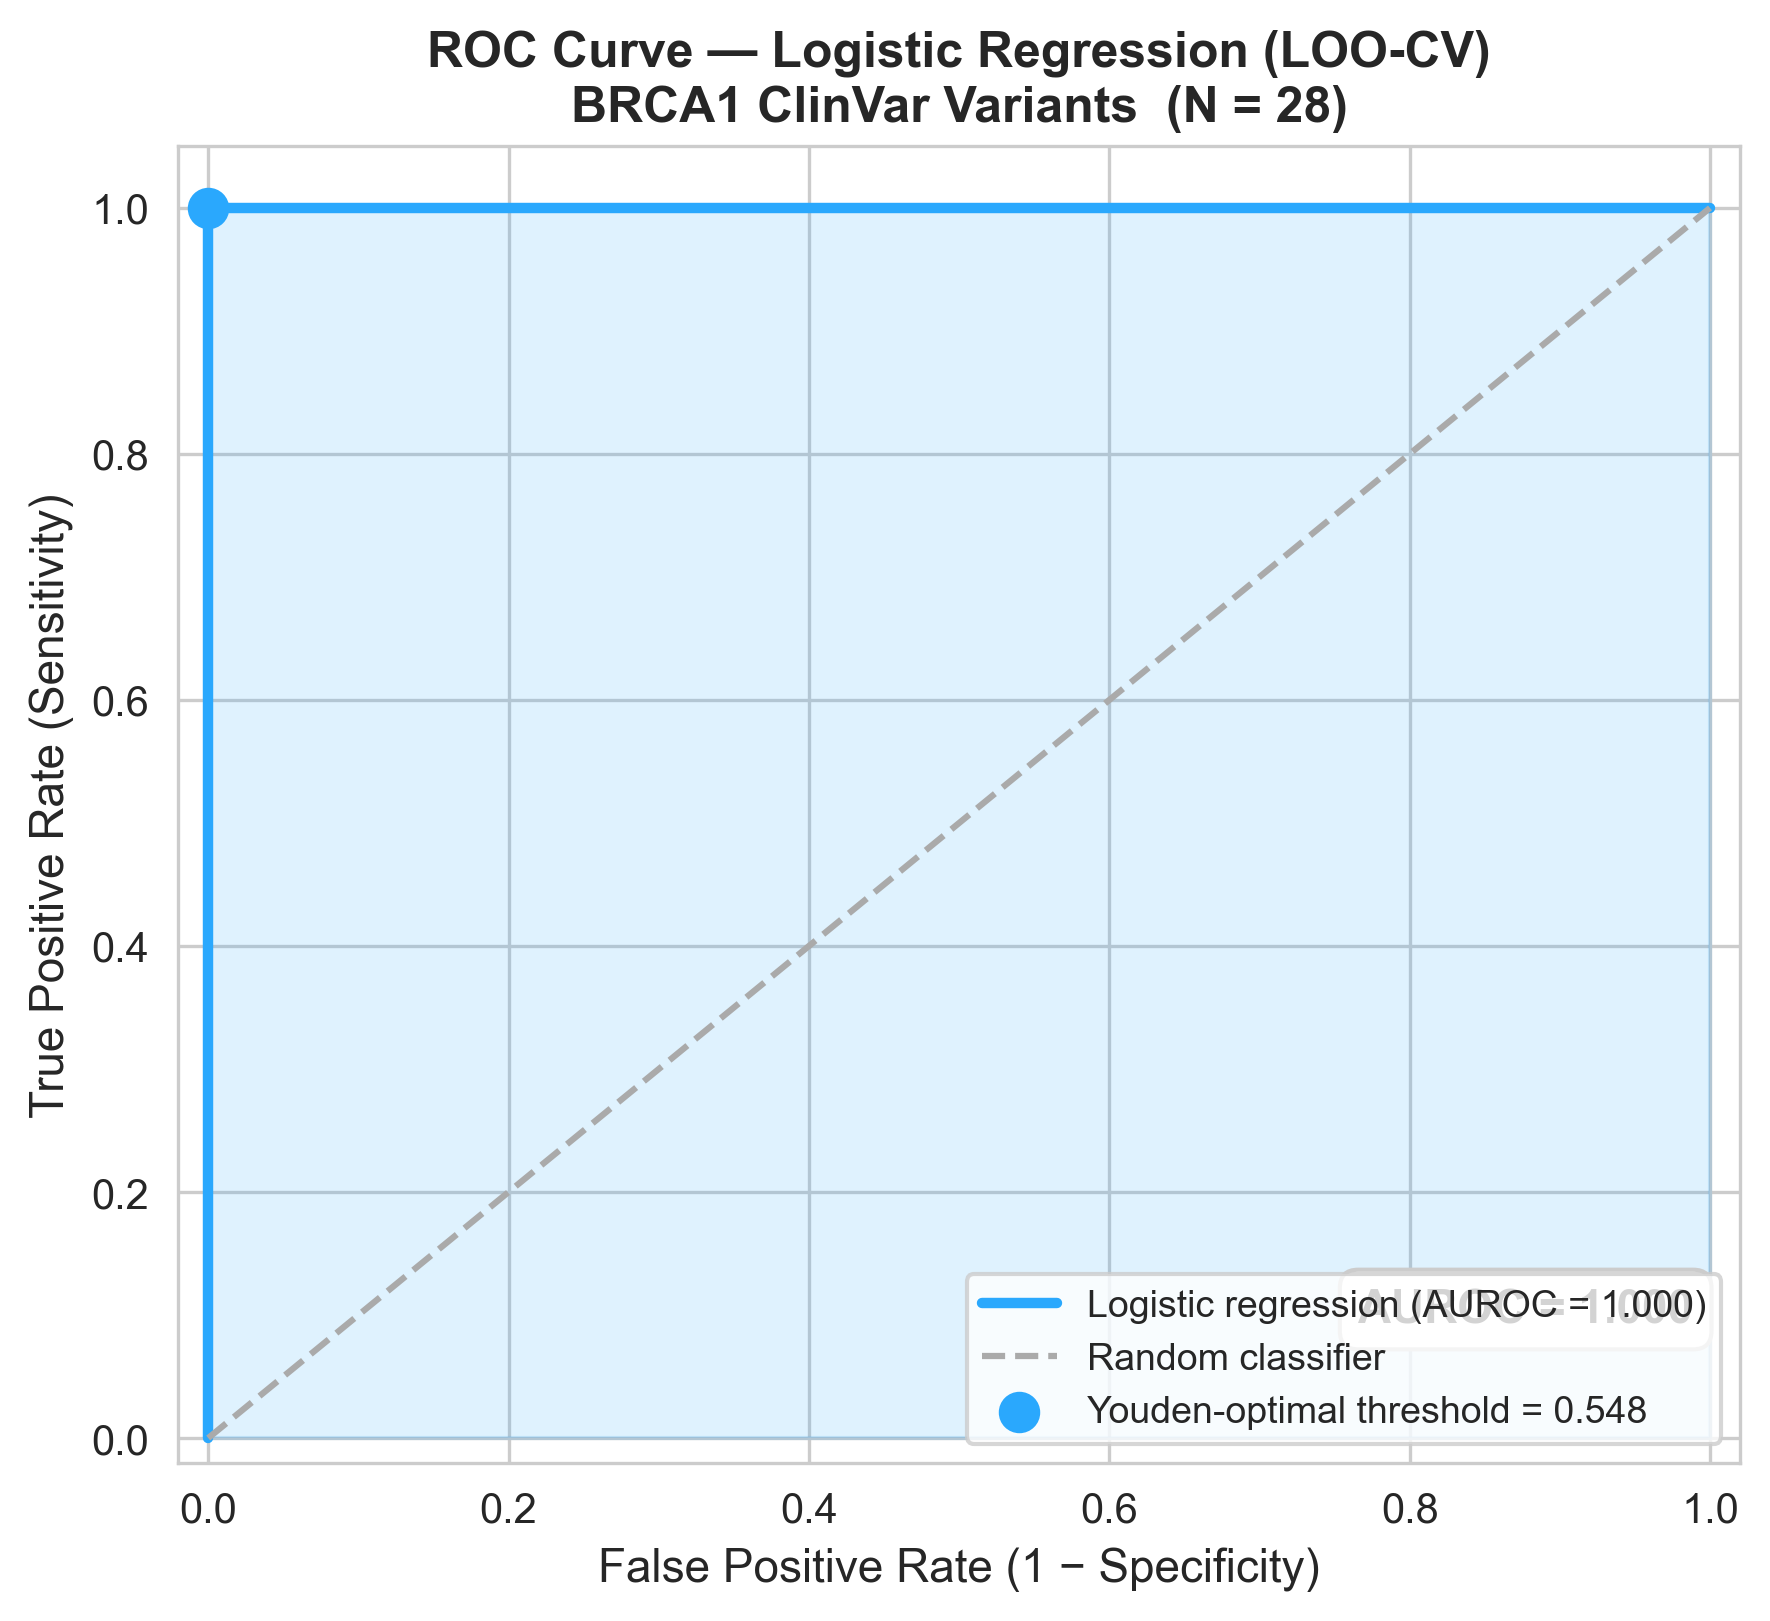
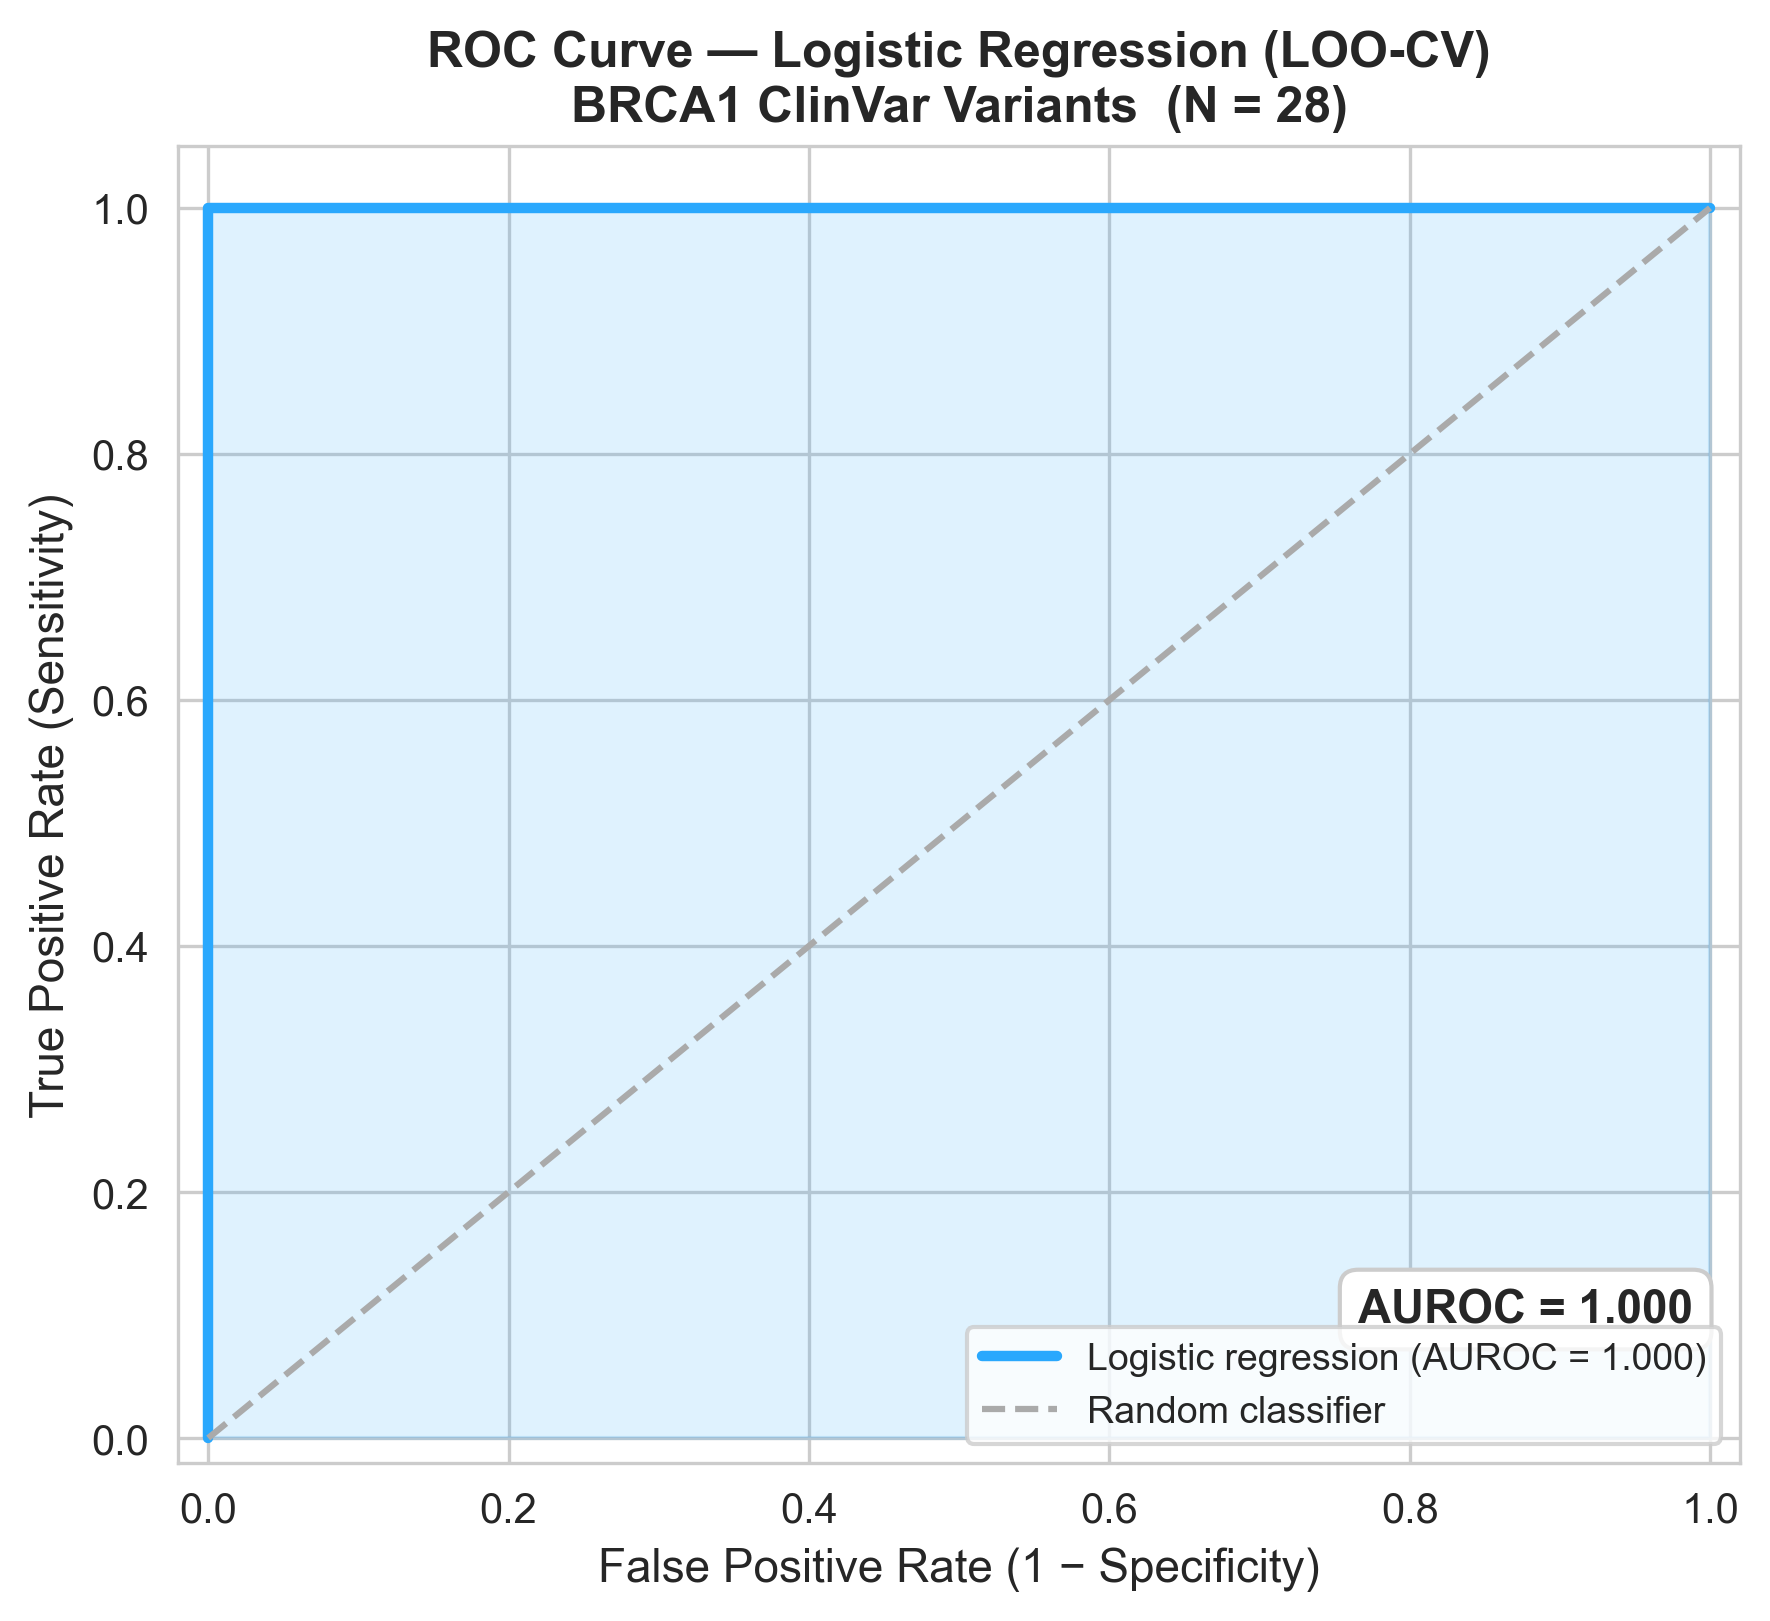
Aim 4: drop Youden-optimal cutoff; report only fixed 0.5 cutoff
Tuning the classification threshold on the labels (Youden's J) inflates
apparent accuracy and is not an honest out-of-sample estimate. Logistic
regression now reports classification metrics at the prespecified 0.5
cutoff only.

- Remove Youden threshold computation, confusion_matrix_youden.png, and the
  Youden operating-point marker on the ROC curve
- Rewrite metrics text + threshold note accordingly
- Update aim4/README.md (28-variant set, single-cutoff framing)

Changed region(s): [[0.5282, 0.7711, 0.9633, 0.8945], [0.0932, 0.0925, 0.1243, 0.1542]]

diff --git a/aim4/02_logistic_regression.py b/aim4/02_logistic_regression.py
@@ -11,12 +11,11 @@ Threshold note
 --------------
 AUROC / Average Precision are threshold-free and measure how well the
 out-of-fold probabilities *rank* the two classes. Accuracy / sensitivity /
-specificity, by contrast, depend on the probability cutoff. With near-
-separable data and LOO on N=20 the fitted probabilities are miscalibrated,
-so the naive 0.5 cutoff is not optimal. We therefore report classification
-metrics at BOTH the default 0.5 cutoff and the Youden-optimal threshold
-(argmax of sensitivity + specificity - 1 on the ROC curve) so the
-threshold sensitivity of the results is explicit.
+specificity, by contrast, depend on the probability cutoff. We report these
+classification metrics at the fixed, prespecified 0.5 cutoff only. A data-
+driven "optimal" cutoff (e.g. Youden's J) is deliberately NOT used, because
+choosing the threshold after seeing the labels inflates the apparent
+accuracy and is not an honest out-of-sample estimate.
 
 Outputs  (aim4/results/)
 ------------------------
@@ -128,11 +127,8 @@ print("(Negative coefficient expected: lower pred_score → higher P(pathogenic)
 auroc = roc_auc_score(y, oof_proba)
 ap    = average_precision_score(y, oof_proba)
 
-# ROC curve + Youden-optimal threshold (max of sensitivity + specificity - 1)
+# ROC curve (used for the curve plot below; threshold-free)
 fpr, tpr, roc_thresholds = roc_curve(y, oof_proba)
-youden_j = tpr - fpr
-youden_idx = int(np.argmax(youden_j))
-youden_threshold = float(roc_thresholds[youden_idx])
 
 
 def threshold_metrics(threshold: float) -> dict:
@@ -152,7 +148,6 @@ def threshold_metrics(threshold: float) -> dict:
 
 
 m_default = threshold_metrics(0.5)
-m_youden  = threshold_metrics(youden_threshold)
 
 
 def _print_block(title: str, m: dict) -> None:
@@ -168,9 +163,8 @@ def _print_block(title: str, m: dict) -> None:
 print(f"\nLOO-CV threshold-free metrics:")
 print(f"  AUROC        : {auroc:.3f}")
 print(f"  Avg Precision: {ap:.3f}")
-print("\nLOO-CV classification metrics at two thresholds:")
-_print_block("Default cutoff",         m_default)
-_print_block("Youden-optimal cutoff",  m_youden)
+print("\nLOO-CV classification metrics at the 0.5 cutoff:")
+_print_block("Default cutoff", m_default)
 
 
 # ══════════════════════════════════════════════════════════════════════════════
@@ -210,31 +204,16 @@ metrics_text = textwrap.dedent(f"""
 
     Threshold-dependent classification metrics
     ------------------------------------------
-    The accuracy/sensitivity/specificity below depend on the probability
-    cutoff. With near-separable data and LOO on N=20 the fitted probabilities
-    are miscalibrated, so the naive 0.5 cutoff is not optimal. Both cutoffs
-    are reported so the threshold sensitivity is explicit.
+    The accuracy/sensitivity/specificity below are computed at the fixed,
+    prespecified 0.5 probability cutoff. A data-driven "optimal" cutoff is
+    deliberately not reported, as tuning the threshold on the labels would
+    overstate out-of-sample performance.
 
-    [A] Default cutoff (threshold = 0.500)
+    Default cutoff (threshold = 0.500)
         Accuracy        : {m_default['accuracy']:.4f}  ({m_default['tp'] + m_default['tn']}/{n_total} correct)
         Sensitivity     : {m_default['sensitivity']:.4f}  ({m_default['tp']}/{m_default['tp'] + m_default['fn']} pathogenic correctly identified)
         Specificity     : {m_default['specificity']:.4f}  ({m_default['tn']}/{m_default['tn'] + m_default['fp']} benign correctly identified)
         TP / TN / FP / FN: {m_default['tp']} / {m_default['tn']} / {m_default['fp']} / {m_default['fn']}
-
-    [B] Youden-optimal cutoff (threshold = {youden_threshold:.4f})
-        Threshold chosen to maximise (sensitivity + specificity - 1) on the
-        out-of-fold ROC curve.
-        Accuracy        : {m_youden['accuracy']:.4f}  ({m_youden['tp'] + m_youden['tn']}/{n_total} correct)
-        Sensitivity     : {m_youden['sensitivity']:.4f}  ({m_youden['tp']}/{m_youden['tp'] + m_youden['fn']} pathogenic correctly identified)
-        Specificity     : {m_youden['specificity']:.4f}  ({m_youden['tn']}/{m_youden['tn'] + m_youden['fp']} benign correctly identified)
-        TP / TN / FP / FN: {m_youden['tp']} / {m_youden['tn']} / {m_youden['fp']} / {m_youden['fn']}
-
-    Interpretation
-    --------------
-    The drop in accuracy at the 0.5 cutoff relative to the Youden cutoff is an
-    artifact of probability calibration, not of discrimination: the ranking is
-    perfect (AUROC = 1.0). Report the threshold-free metrics as the headline
-    result and treat the 0.5-cutoff confusion matrix as illustrative only.
 
     Confusion matrix rows = actual labels, columns = predicted labels.
     Class order: 0 = benign, 1 = pathogenic.
@@ -288,14 +267,9 @@ def plot_confusion_matrix(m: dict, subtitle: str, out_path: Path) -> None:
     print(f"Plot saved  → {out_path}")
 
 
-# Default 0.5 cutoff keeps the canonical filename; Youden cutoff is a sibling.
 plot_confusion_matrix(
     m_default, "threshold = 0.50 (default)",
     OUT_DIR / "confusion_matrix.png",
-)
-plot_confusion_matrix(
-    m_youden, f"threshold = {youden_threshold:.3f} (Youden-optimal)",
-    OUT_DIR / "confusion_matrix_youden.png",
 )
 
 
@@ -305,17 +279,12 @@ plot_confusion_matrix(
 
 fig, ax = plt.subplots(figsize=(6, 5.5))
 
-# Shaded AUC area  (fpr / tpr / youden_idx computed in the metrics section)
+# Shaded AUC area  (fpr / tpr computed in the metrics section)
 ax.fill_between(fpr, tpr, alpha=0.15, color=COL_PATH)
 ax.plot(fpr, tpr, color=COL_PATH, linewidth=2.5,
         label=f"Logistic regression (AUROC = {auroc:.3f})")
 ax.plot([0, 1], [0, 1], color="#aaaaaa", linestyle="--",
         linewidth=1.5, label="Random classifier")
-
-# Mark the Youden-optimal operating point
-ax.scatter(fpr[youden_idx], tpr[youden_idx], color=COL_PATH,
-           s=80, zorder=5,
-           label=f"Youden-optimal threshold = {youden_threshold:.3f}")
 
 ax.set_xlabel("False Positive Rate (1 − Specificity)", fontsize=11)
 ax.set_ylabel("True Positive Rate (Sensitivity)", fontsize=11)

diff --git a/aim4/README.md b/aim4/README.md
@@ -7,15 +7,15 @@ predicted functional scores actually separate clinically pathogenic variants fro
 benign ones?*
 
 - **Lower `pred_score` ⇒ more loss-of-function ⇒ more likely pathogenic.**
-- Validation set: **20 BRCA1 missense variants** with non-conflicting ClinVar
-  classifications — **10 pathogenic, 10 benign**.
+- Validation set: **28 BRCA1 missense variants** with non-conflicting ClinVar
+  classifications — **14 pathogenic, 14 benign**.
 
 ---
 
 ## Input
 
 ```
-aim3/results/clinvar_predictions.csv
+clinvar_test_predictions_annotated.csv   (repo root)
 ```
 
 One row per variant. Columns used by these scripts:
@@ -41,21 +41,20 @@ Tests whether the `pred_score` distributions of the two classes differ.
 - **Mann–Whitney U** (two-sided) — difference in central tendency.
 - **Kolmogorov–Smirnov** (two-sample) — difference in overall distribution shape.
 - Produces an overlaid KDE plot with group medians, the score-based
-  classification threshold, rug ticks, p-value annotations, and a callout for the
-  one threshold-misclassified variant.
+  classification threshold, p-value annotations, and callouts for any
+  threshold-misclassified variants.
 
 **Outputs:** `results/distribution_stats.txt`, `results/kde_distribution.png`
 
 ### `02_logistic_regression.py`
 Fits a logistic regression with `pred_score` as the sole predictor and the ClinVar
 label as the outcome, evaluated by **Leave-One-Out cross-validation (LOO-CV)** —
-the appropriate choice for N=20 (one unbiased out-of-fold probability per variant,
-no leakage).
+the appropriate choice for a small N (one unbiased out-of-fold probability per
+variant, no leakage).
 
 **Outputs:**
 - `results/logistic_regression_metrics.txt`
 - `results/confusion_matrix.png` (0.5 cutoff)
-- `results/confusion_matrix_youden.png` (Youden-optimal cutoff)
 - `results/roc_curve.png`, `results/precision_recall_curve.png`
 
 ---
@@ -67,26 +66,15 @@ This is the most important nuance in the Aim 4 results.
 - **AUROC** and **Average Precision** are *threshold-free*. They measure only how
   well the predicted probabilities **rank** pathogenic above benign.
   **AUROC = 1.0 means the scores separate the two classes perfectly by rank** —
-  i.e. *some* cutoff classifies all 20 variants correctly.
+  i.e. *some* cutoff classifies all variants correctly.
 - **Accuracy / sensitivity / specificity** depend on the **probability cutoff**.
-  With near-separable data and LOO on N=20, the fitted logistic probabilities are
-  **miscalibrated**, so the naive 0.5 cutoff is *not* the optimal operating point
-  and understates performance.
+  We report these at the fixed, prespecified **0.5 cutoff only**.
 
-Because of this, `02` reports classification metrics at **two** thresholds so the
-difference is explicit:
-
-| Threshold                | What it is                                                        |
-|--------------------------|-------------------------------------------------------------------|
-| **0.50 (default)**       | Naive probability cutoff. Illustrative only.                      |
-| **Youden-optimal**       | Maximises `sensitivity + specificity − 1` on the out-of-fold ROC. |
-
-Since AUROC = 1.0, the Youden cutoff achieves perfect separation (20/20), whereas
-the 0.5 cutoff misclassifies several pathogenic variants as benign — a calibration
-artifact, **not** a discrimination failure. **Report the threshold-free metrics
-(AUROC / AP) as the headline result**; treat the 0.5-cutoff confusion matrix as
-illustrative. The exact Youden threshold value is written into
-`logistic_regression_metrics.txt` at run time.
+A data-driven "optimal" cutoff (e.g. Youden's J, which maximises
+`sensitivity + specificity − 1`) is **deliberately not used**: choosing the
+threshold after seeing the labels inflates the apparent accuracy and is not an
+honest out-of-sample estimate. The 0.5 cutoff is fixed in advance and reported
+as-is.
 
 ---
 
@@ -94,27 +82,28 @@ illustrative. The exact Youden threshold value is written into
 
 **Distribution analysis** — the two classes are cleanly separated:
 
-| Statistic            | Value          |
-|----------------------|----------------|
-| Mann–Whitney U       | 0  (p ≈ 1.8e-4) |
-| Kolmogorov–Smirnov   | 1.0 (p ≈ 1.1e-5) |
-| Median (pathogenic)  | ≈ −0.91        |
-| Median (benign)      | ≈ −0.08        |
+| Statistic            | Value             |
+|----------------------|-------------------|
+| Mann–Whitney U       | 0.0  (p ≈ 7.5e-6) |
+| Kolmogorov–Smirnov   | 1.0  (p ≈ 5.0e-8) |
+| Median (pathogenic)  | ≈ −0.847          |
+| Median (benign)      | ≈ −0.004          |
 
-**Logistic regression (LOO-CV)** — perfect ranking:
+**Logistic regression (LOO-CV)** at the fixed 0.5 cutoff:
 
 | Metric                          | Value                |
 |---------------------------------|----------------------|
-| AUROC                           | 1.000                |
-| Average Precision               | 1.000                |
-| Accuracy @ 0.5 cutoff           | 0.85 (17/20)         |
-| Accuracy @ Youden cutoff        | 1.00 (20/20)         |
+| AUROC (threshold-free)          | 1.000                |
+| Average Precision (threshold-free) | 1.000             |
+| Accuracy @ 0.5 cutoff           | 0.964 (27/28)        |
+| Sensitivity @ 0.5 cutoff        | 1.000 (14/14)        |
+| Specificity @ 0.5 cutoff        | 0.929 (13/14)        |
 
 > **Note on the two scripts' misclassifications.** The distribution script's
-> fixed score threshold flags **H1862L** (a benign variant just below the cutoff)
-> as the single error. The logistic-regression 0.5 cutoff instead misses a few
-> *pathogenic* variants. These are different operating points on the same
-> perfectly-ranked data — do not conflate them in the writeup.
+> fixed score threshold flags 2 benign variants (**M1652T**, **I1723T**) just
+> past the cutoff. The logistic-regression 0.5 cutoff instead misclassifies 1
+> benign variant as pathogenic. These are different operating points on the same
+> perfectly-ranked data (AUROC = 1.0) — do not conflate them in the writeup.
 
 ---
 
@@ -147,7 +136,6 @@ aim4/
     ├── kde_distribution.png
     ├── logistic_regression_metrics.txt
     ├── confusion_matrix.png            # 0.5 cutoff
-    ├── confusion_matrix_youden.png     # Youden-optimal cutoff
     ├── roc_curve.png
     └── precision_recall_curve.png
 ```